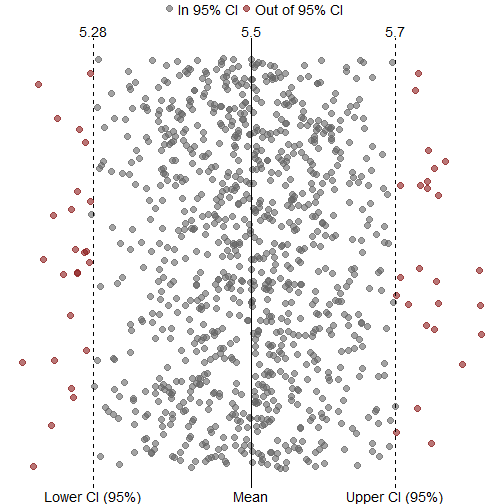
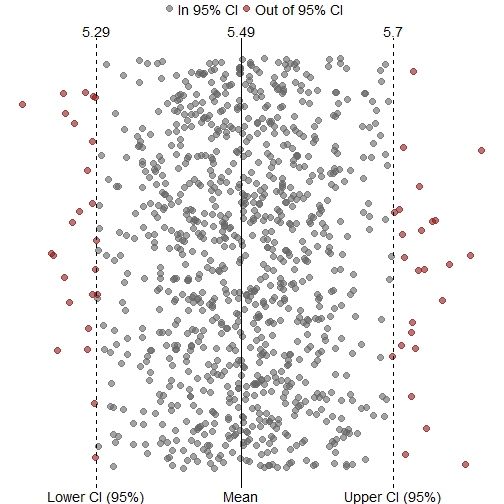
fix standard errors on confidence intervals

diff --git a/Notes/lect-16-confidence-intervals-part2.html b/Notes/lect-16-confidence-intervals-part2.html
@@ -518,18 +518,18 @@ bt_ci
   </hgroup>
   <article data-timings="">
     <pre><code class="r">brfss3 %&gt;% 
-    summarise(mean(menthlth, na.rm=T), sd(menthlth, na.rm=T))
+    summarise(mean(menthlth, na.rm=T), sd(menthlth, na.rm=T), n=n())
  qt(0.975, df=6662)
 
-5.498013 - 1.96032 * 8.639915
-5.498013 + 1.96032 * 8.639915
+5.498013 - 1.96032 * 8.639915/6663
+5.498013 + 1.96032 * 8.639915/6663
 </code></pre>
 
-<pre><code>##   mean(menthlth, na.rm = T) sd(menthlth, na.rm = T)
-## 1                  5.498013                8.639915
+<pre><code>##   mean(menthlth, na.rm = T) sd(menthlth, na.rm = T)    n
+## 1                  5.498013                8.639915 6663
 ## [1] 1.96032
-## [1] -11.43899
-## [1] 22.43501
+## [1] 5.495471
+## [1] 5.500555
 </code></pre>
 
     

diff --git a/Notes/lect-15-confidence-intervals.html b/Notes/lect-15-confidence-intervals.html
@@ -311,9 +311,10 @@ qnorm(0.975)
 
 mn &lt;- mean(data)
 std.dev &lt;- sd(data)
+n &lt;- length(data)
 
-mn - 1.96*std.dev
-mn + 1.96*std.dev
+mn - 1.96*std.dev/n
+mn + 1.96*std.dev/n
 </code></pre>
 
     
@@ -686,8 +687,8 @@ qt(0.975, 9)
     <hr>
   </hgroup>
   <article data-timings="">
-    <pre><code>## [1] 53.99775
-## [1] 75.43369
+    <pre><code>## [1] 63.64392
+## [1] 65.78752
 </code></pre>
 
     

diff --git a/Notes/lect-16-confidence-intervals-part2.md b/Notes/lect-16-confidence-intervals-part2.md
@@ -280,19 +280,19 @@ bt_ci
 
 ```r
 brfss3 %>% 
-    summarise(mean(menthlth, na.rm=T), sd(menthlth, na.rm=T))
+    summarise(mean(menthlth, na.rm=T), sd(menthlth, na.rm=T), n=n())
  qt(0.975, df=6662)
 
-5.498013 - 1.96032 * 8.639915
-5.498013 + 1.96032 * 8.639915
+5.498013 - 1.96032 * 8.639915/6663
+5.498013 + 1.96032 * 8.639915/6663
 ```
 
 ```
-##   mean(menthlth, na.rm = T) sd(menthlth, na.rm = T)
-## 1                  5.498013                8.639915
+##   mean(menthlth, na.rm = T) sd(menthlth, na.rm = T)    n
+## 1                  5.498013                8.639915 6663
 ## [1] 1.96032
-## [1] -11.43899
-## [1] 22.43501
+## [1] 5.495471
+## [1] 5.500555
 ```
 
 

diff --git a/Notes/lect-15-confidence-intervals.md b/Notes/lect-15-confidence-intervals.md
@@ -135,9 +135,10 @@ data <- rbinom(10, 10, 0.3)
 
 mn <- mean(data)
 std.dev <- sd(data)
+n <- length(data)
 
-mn - 1.96*std.dev
-mn + 1.96*std.dev
+mn - 1.96*std.dev/n
+mn + 1.96*std.dev/n
 ```
 
 
@@ -299,8 +300,8 @@ qt(0.975, 9)
 
 
 ```
-## [1] 53.99775
-## [1] 75.43369
+## [1] 63.64392
+## [1] 65.78752
 ```
 
 
